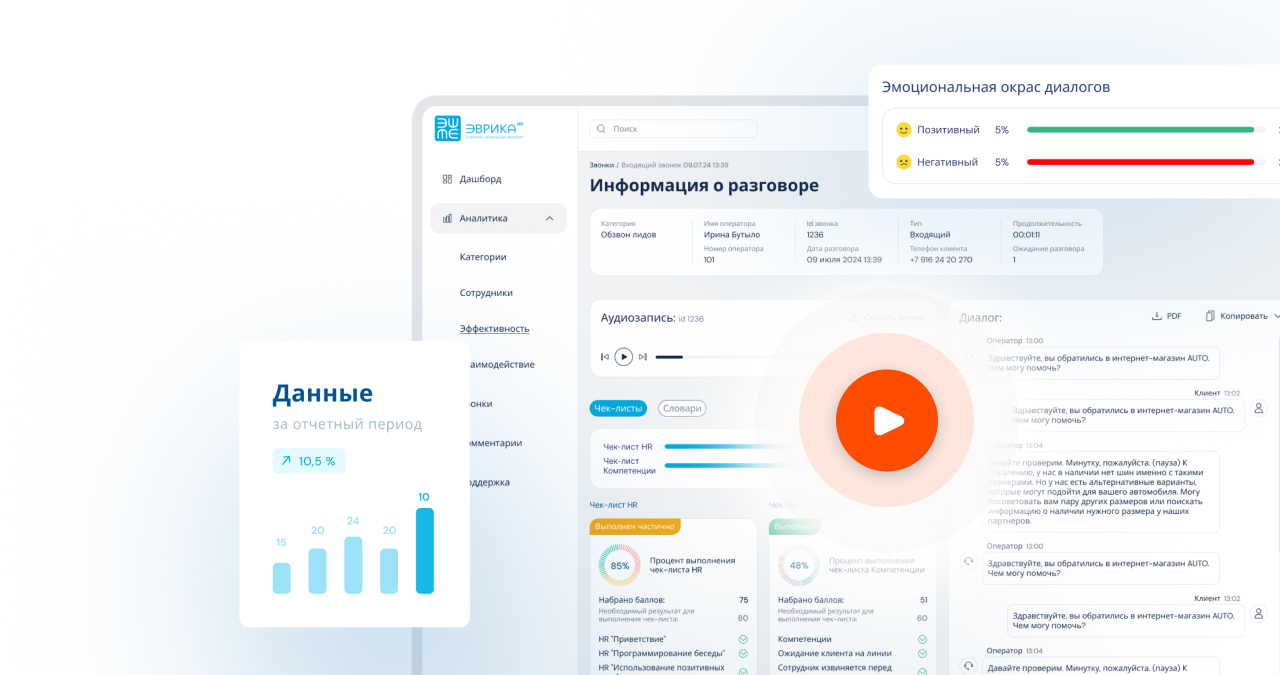
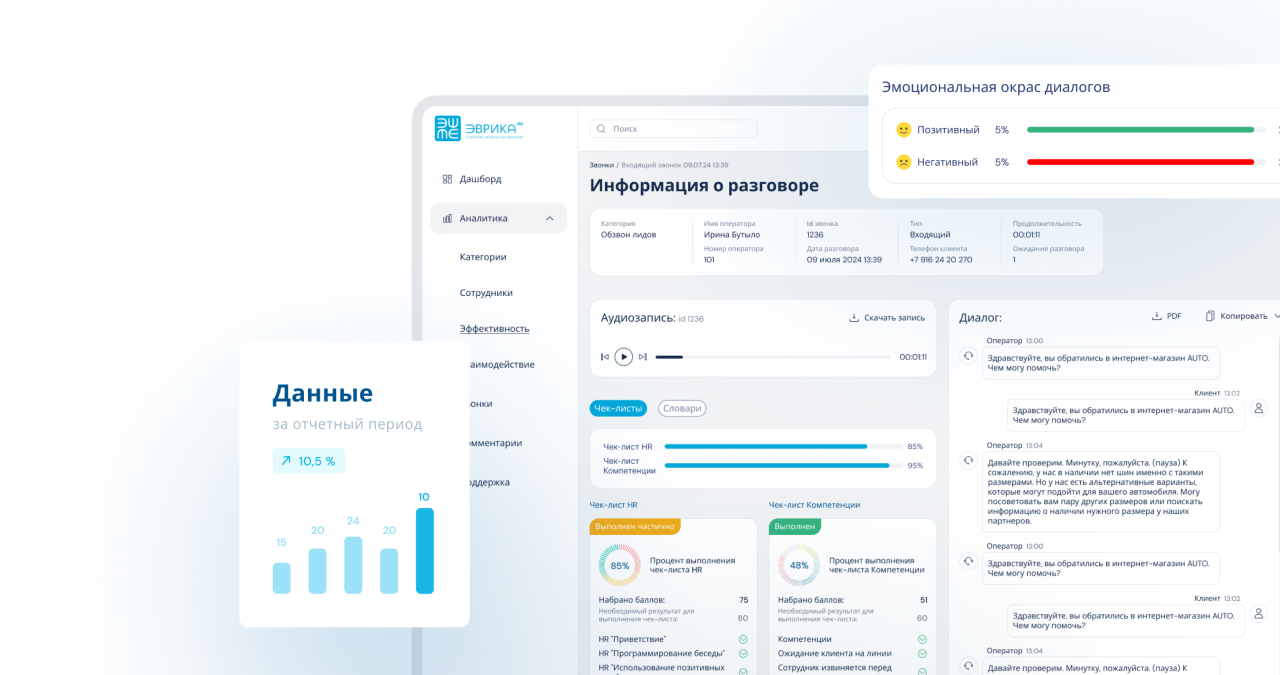
feat: change play video btns to change on hover

Changed region(s): [[0.5312, 0.4667, 0.8438, 0.8711]]

diff --git a/wp-content/themes/evrika360/style.css b/wp-content/themes/evrika360/style.css
@@ -892,6 +892,25 @@ input[type='text']:disabled {
   --tw-shadow: var(--light-inset-shadow);
   --tw-shadow-colored: var(--light-inset-shadow);
   box-shadow: var(--tw-ring-offset-shadow, 0 0 #0000), var(--tw-ring-shadow, 0 0 #0000), var(--tw-shadow);
+  transition-property: color, background-color, border-color, text-decoration-color, fill, stroke;
+  transition-timing-function: cubic-bezier(0.4, 0, 0.2, 1);
+  transition-duration: 200ms;
+}
+
+.btn:hover {
+  background-color: var(--light-blue-100);
+}
+
+.btn:active {
+  background-color: var(--light-blue-300);
+}
+
+.btn:disabled {
+  background-color: var(--grey-100);
+  color: var(--grey-400);
+  --tw-shadow: 0 0 #0000;
+  --tw-shadow-colored: 0 0 #0000;
+  box-shadow: var(--tw-ring-offset-shadow, 0 0 #0000), var(--tw-ring-shadow, 0 0 #0000), var(--tw-shadow);
 }
 
 @media (min-width: 640px) {
@@ -909,12 +928,28 @@ input[type='text']:disabled {
   box-shadow: var(--tw-ring-offset-shadow, 0 0 #0000), var(--tw-ring-shadow, 0 0 #0000), var(--tw-shadow);
 }
 
+.btn.primary:hover {
+  background-color: var(--blue-200);
+}
+
+.btn.primary:active {
+  background-color: var(--dark-blue-300);
+}
+
 .btn.dark {
   background-color: var(--dark-blue-500);
   color: var(--white-100);
   --tw-shadow: var(--ultra-dark-inset-shadow);
   --tw-shadow-colored: var(--ultra-dark-inset-shadow);
   box-shadow: var(--tw-ring-offset-shadow, 0 0 #0000), var(--tw-ring-shadow, 0 0 #0000), var(--tw-shadow);
+}
+
+.btn.dark:hover {
+  background-color: var(--dark-blue-400);
+}
+
+.btn.dark:active {
+  background-color: var(--dark-blue-600);
 }
 
 .character-bg {
@@ -977,6 +1012,24 @@ input[type='text']:disabled {
   padding-left: 0.75rem;
   padding-right: 0.75rem;
   padding-bottom: 0.75rem;
+  transition-property: color, background-color, border-color, text-decoration-color, fill, stroke;
+  transition-timing-function: cubic-bezier(0.4, 0, 0.2, 1);
+  transition-duration: 100ms;
+}
+
+.tab:hover {
+  cursor: pointer;
+  border-bottom-width: 2px;
+  border-bottom-color: var(--orange-500);
+  font-weight: 700;
+  color: var(--orange-500);
+}
+
+.tab:active {
+  border-bottom-width: 2px;
+  border-bottom-color: var(--orange-500);
+  font-weight: 700;
+  color: var(--orange-500);
 }
 
 .tab:has(:checked) {
@@ -1832,6 +1885,34 @@ input[type='text']:disabled {
   top: 84px;
 }
 
+.bottom-2 {
+  bottom: 0.5rem;
+}
+
+.bottom-\[38\%\] {
+  bottom: 38%;
+}
+
+.right-\[15\%\] {
+  right: 15%;
+}
+
+.bottom-\[38\.2\%\] {
+  bottom: 38.2%;
+}
+
+.right-\[14\.81\%\] {
+  right: 14.81%;
+}
+
+.bottom-\[4\%\] {
+  bottom: 4%;
+}
+
+.right-\[13\.5\%\] {
+  right: 13.5%;
+}
+
 .-z-10 {
   z-index: -10;
 }
@@ -1854,6 +1935,10 @@ input[type='text']:disabled {
 
 .z-50 {
   z-index: 50;
+}
+
+.z-20 {
+  z-index: 20;
 }
 
 .m-auto {
@@ -2075,6 +2160,10 @@ input[type='text']:disabled {
   display: none;
 }
 
+.aspect-square {
+  aspect-ratio: 1 / 1;
+}
+
 .h-12 {
   height: 3rem;
 }
@@ -2114,6 +2203,42 @@ input[type='text']:disabled {
 
 .h-screen {
   height: 100vh;
+}
+
+.h-\[140px\] {
+  height: 140px;
+}
+
+.h-\[163px\] {
+  height: 163px;
+}
+
+.h-\[183px\] {
+  height: 183px;
+}
+
+.h-\[200px\] {
+  height: 200px;
+}
+
+.h-\[230px\] {
+  height: 230px;
+}
+
+.h-\[24\%\] {
+  height: 24%;
+}
+
+.h-\[24\.21\%\] {
+  height: 24.21%;
+}
+
+.h-\[34\.17\%\] {
+  height: 34.17%;
+}
+
+.h-\[auto\] {
+  height: auto;
 }
 
 .w-1\/2 {
@@ -2160,6 +2285,38 @@ input[type='text']:disabled {
 
 .w-screen {
   width: 100vw;
+}
+
+.w-\[140px\] {
+  width: 140px;
+}
+
+.w-\[163px\] {
+  width: 163px;
+}
+
+.w-\[183px\] {
+  width: 183px;
+}
+
+.w-\[200px\] {
+  width: 200px;
+}
+
+.w-\[230px\] {
+  width: 230px;
+}
+
+.w-\[24\%\] {
+  width: 24%;
+}
+
+.w-\[24\.21\%\] {
+  width: 24.21%;
+}
+
+.w-\[34\.17\%\] {
+  width: 34.17%;
 }
 
 .min-w-max {
@@ -2881,6 +3038,10 @@ input[type='text']:disabled {
   opacity: 0.4;
 }
 
+.opacity-0 {
+  opacity: 0;
+}
+
 .shadow-card {
   --tw-shadow: var(--card-shadow);
   --tw-shadow-colored: var(--card-shadow);
@@ -2901,6 +3062,18 @@ input[type='text']:disabled {
 
 .transition-colors {
   transition-property: color, background-color, border-color, text-decoration-color, fill, stroke;
+  transition-timing-function: cubic-bezier(0.4, 0, 0.2, 1);
+  transition-duration: 150ms;
+}
+
+.transition-all {
+  transition-property: all;
+  transition-timing-function: cubic-bezier(0.4, 0, 0.2, 1);
+  transition-duration: 150ms;
+}
+
+.transition-opacity {
+  transition-property: opacity;
   transition-timing-function: cubic-bezier(0.4, 0, 0.2, 1);
   transition-duration: 150ms;
 }
@@ -3336,6 +3509,22 @@ input[type='text']:disabled {
 
 .hover\:bg-blue-50:hover {
   background-color: var(--blue-50);
+}
+
+.group:hover .group-hover\:block {
+  display: block;
+}
+
+.group:hover .group-hover\:hidden {
+  display: none;
+}
+
+.group:hover .group-hover\:opacity-0 {
+  opacity: 0;
+}
+
+.group:hover .group-hover\:opacity-100 {
+  opacity: 1;
 }
 
 .group:has(:checked) .group-has-\[\:checked\]\:block {
@@ -3799,6 +3988,10 @@ input[type='text']:disabled {
     height: 100%;
   }
 
+  .lg\:h-\[310px\] {
+    height: 310px;
+  }
+
   .lg\:w-1\/2 {
     width: 50%;
   }
@@ -3860,6 +4053,10 @@ input[type='text']:disabled {
     width: fit-content;
   }
 
+  .lg\:w-\[310px\] {
+    width: 310px;
+  }
+
   .lg\:max-w-\[170px\] {
     max-width: 170px;
   }
@@ -3882,6 +4079,11 @@ input[type='text']:disabled {
 
   .lg\:max-w-\[700px\] {
     max-width: 700px;
+  }
+
+  .lg\:max-w-max {
+    max-width: -moz-max-content;
+    max-width: max-content;
   }
 
   .lg\:shrink-0 {

diff --git a/wp-content/themes/evrika360/input.css b/wp-content/themes/evrika360/input.css
@@ -174,15 +174,15 @@ Text Domain: evrika
   }
 
   .btn {
-    @apply h-12 py-3 px-5 mx-auto w-full sm:w-fit flex justify-center items-center rounded-3xl text-base/[130%] text-dark-blue-300 bg-white shadow-light-inset;
+    @apply h-12 py-3 px-5 mx-auto w-full sm:w-fit flex justify-center items-center rounded-3xl text-base/[130%] text-dark-blue-300 bg-white shadow-light-inset hover:bg-light-blue-100 active:bg-light-blue-300 disabled:bg-grey-100 disabled:text-grey-400 disabled:shadow-none transition-colors duration-200;
   }
 
   .btn.primary {
-    @apply text-white shadow-dark-inset bg-blue-100;
+    @apply text-white shadow-dark-inset bg-blue-100 hover:bg-blue-200 active:bg-dark-blue-300;
   }
 
   .btn.dark {
-    @apply text-white shadow-ultra-dark-inset bg-dark-blue-500;
+    @apply text-white shadow-ultra-dark-inset bg-dark-blue-500 hover:bg-dark-blue-400 active:bg-dark-blue-600;
   }
 
   .character-bg {
@@ -198,7 +198,7 @@ Text Domain: evrika
   }
 
   .tab {
-    @apply description flex items-center px-3 lg:px-6 pb-3 shrink-0 w-fit h-[58px] has-[:checked]:border-b-2 has-[:checked]:border-b-orange-400 has-[:checked]:text-orange-400 has-[:checked]:font-bold;
+    @apply description flex items-center px-3 lg:px-6 pb-3 shrink-0 w-fit h-[58px] hover:cursor-pointer hover:font-bold hover:text-orange-500 hover:border-b-2 hover:border-b-orange-500 active:font-bold active:text-orange-500 active:border-b-2 active:border-b-orange-500 has-[:checked]:border-b-2 has-[:checked]:border-b-orange-400 has-[:checked]:text-orange-400 has-[:checked]:font-bold transition-colors duration-100;
   }
 
   .flash-li {

diff --git a/wp-content/themes/evrika360/tailwind.config.js b/wp-content/themes/evrika360/tailwind.config.js
@@ -76,12 +76,6 @@ module.exports = {
       '3xl': 'var(--radius-3xl)',
       '5xl': 'var(--radius-5xl)',
     },
-    boxShadow: {
-      'dark-inset': 'var(--dark-inset-shadow)',
-      'ultra-dark-inset': 'var(--ultra-dark-inset-shadow)',
-      'light-inset': 'var(--light-inset-shadow)',
-      card: 'var(--card-shadow)',
-    },
     extend: {
       screens: {
         xs: '500px',
@@ -103,6 +97,12 @@ module.exports = {
             fontWeight: '400',
           },
         ],
+      },
+      boxShadow: {
+        'dark-inset': 'var(--dark-inset-shadow)',
+        'ultra-dark-inset': 'var(--ultra-dark-inset-shadow)',
+        'light-inset': 'var(--light-inset-shadow)',
+        card: 'var(--card-shadow)',
       },
       content: {
         flash: 'url("./assets/images/flash-icon.png")',

diff --git a/wp-content/themes/evrika360/home.php b/wp-content/themes/evrika360/home.php
@@ -223,15 +223,21 @@
     </div>
 
     <div class="lg:hidden absolute -bottom-[152px] left-1/2 -translate-x-1/2 w-max z-10">
-      <img class=" min-w-max" src="<?php echo get_template_directory_uri() ?>/assets/images/promo-dashboard-mobile.png" alt="">
+      <img class="min-w-max" src="<?php echo get_template_directory_uri() ?>/assets/images/promo-dashboard-mobile.png" alt="">
     </div>
 
-    <div class="lg:hidden absolute bottom-0 left-1/2 -translate-x-1/2 w-max z-10">
-      <img class=" min-w-max" src="<?php echo get_template_directory_uri() ?>/assets/images/promo-play.png" alt="">
+    <div class="group lg:hidden absolute bottom-2 left-1/2 -translate-x-1/2 w-[230px] h-[230px] z-10 hover:cursor-pointer">
+      <img class="group-hover:opacity-0 absolute inset-0 transition-opacity duration-200 z-20" src="<?php echo get_template_directory_uri() ?>/assets/images/promo-play.png" alt="">
+      <img class="absolute inset-0 transition-opacity duration-200" src="<?php echo get_template_directory_uri() ?>/assets/images/promo-play-hover.png" alt="">
     </div>
 
     <div class="hidden lg:block absolute bottom-0 right-0 max-w-[67%]">
       <img src="<?php echo get_template_directory_uri() ?>/assets/images/promo-dashboard-desktop.png" alt="">
+
+      <div class="group absolute bottom-[4%] right-[13.5%] w-[34.17%] aspect-square z-10 hover:cursor-pointer">
+        <img class="group-hover:opacity-0 absolute inset-0 transition-opacity duration-200 z-20" src="<?php echo get_template_directory_uri() ?>/assets/images/promo-play.png" alt="">
+        <img class="absolute inset-0 transition-opacity duration-200" src="<?php echo get_template_directory_uri() ?>/assets/images/promo-play-hover.png" alt="">
+      </div>
     </div>
   </section>
 
